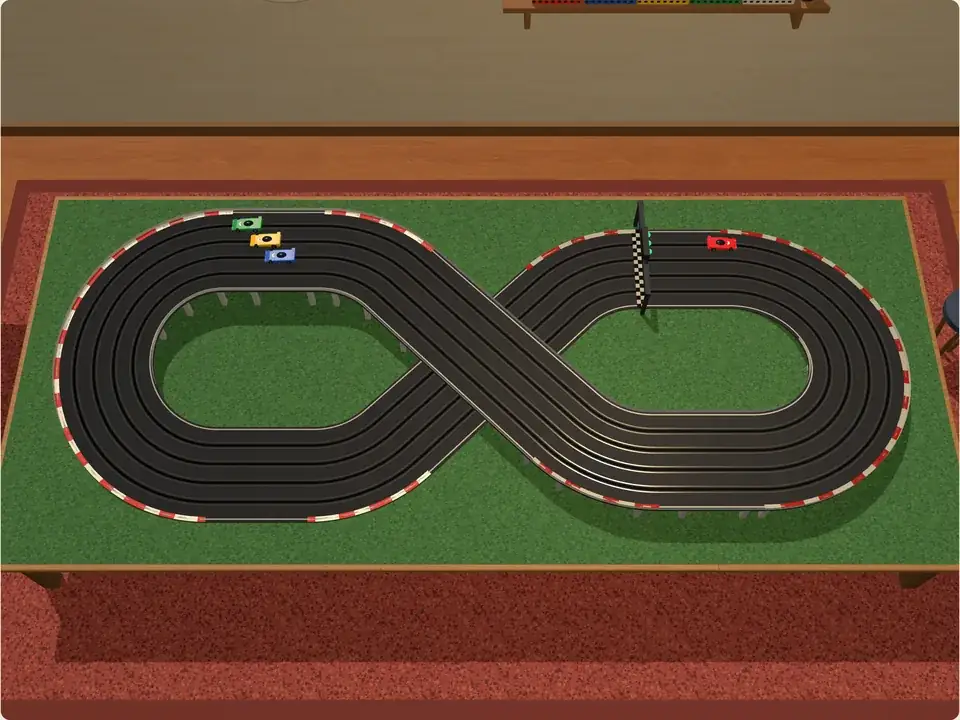
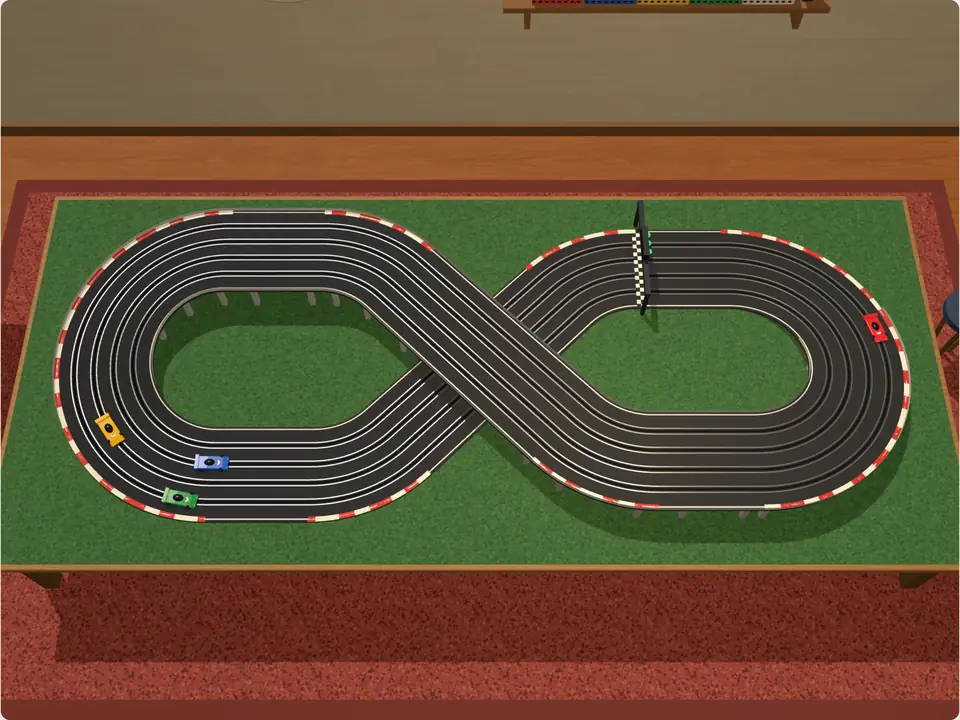
Slot car: banked curves turn about their inner edge and the beams follow the bank (no broken track); the computer's cars now and then push too hard and fly off
Claude-Session: https://claude.ai/code/session_01Uedx1uYtd54DPXXtQh77nN

Changed region(s): [[0.0625, 0.275, 0.9688, 0.7333]]

diff --git a/src/core/updates.ts b/src/core/updates.ts
@@ -12,7 +12,7 @@ const at = (text: string, full = false) => ({ text, full });
 export const UPDATES: UpdateDay[] = [
   {
     date: "2026-11-25",
-    items: [at("배드민턴 와이파이 여럿이(둘이)"), at("배드민턴: 손가락을 떼지 않고 누른 채로 빠르게 밀기만 해도 칩니다"), at("낚시: 찌를 물면 격렬하게 요동치고, 릴을 계속 빠르게 돌려야(화면에 원 그리기·스페이스 연타) 끌어올립니다"), at("낚시: 바다 낚시(전갱이부터 참치까지, 더 길고 거친 싸움), 호수는 낮에서 해질녘을 지나 밤으로, 낚싯대에 돌아가는 릴"), at("숫자 코드 와이파이: 처음에 모두 함께 패를 정리하고 배열 완료(조커를 받은 사람이 티 나지 않게)"), at("낚시: 호수에 개구리·가재, 바다에 장어·청새치·상어·고래"), at("낚시: 시간 제한과 난이도 없음, 바다 낚시는 흔들리는 낚싯배 위에서"), at("낚시: 바다도 낮에서 밤으로 하늘이 바뀌고, 물고기가 덜 자주 차고 나갑니다"), at("낚시: 흔한 물고기는 금방 딸려 오고 큰 물고기는 오래 걸림, 큰 물고기도 요동은 몇 번뿐"), at("배드민턴: 높이 뜬 셔틀콕이 더 빠르게 올라갔다 떨어집니다"), at("탁구: 내가 친 공은 아웃되지 않고, 친 뒤 라켓을 옆으로 움직여 공을 휘게 합니다(치는 순간 저절로 걸리던 스핀 없음)"), at("배드민턴: 아웃 없음(옆줄·뒷줄 안쪽으로, 서브도 맞는 코트로)"), at("탁구: 컴퓨터가 더 빨라져 옆으로 치거나 휜 공도 받아 냅니다"), at("새 게임: 훌라 — 같은 숫자·같은 무늬 묶음을 등록하고 붙여 먼저 손을 비우기(땡큐, 7 단독 등록, 한 번에 털면 훌라 두 배)"), at("새 게임: 룰렛 — 칩을 판에 걸고 휠을 돌리면 공이 굴러 떨어진 칸으로 승부", true), at("새 게임: 슬롯머신 — 레버를 끌어 당기면 릴 3개가 돌다 멈춤, 1·3·5라인, 환급률 95.4%", true)],
+    items: [at("배드민턴 와이파이 여럿이(둘이)"), at("배드민턴: 손가락을 떼지 않고 누른 채로 빠르게 밀기만 해도 칩니다"), at("낚시: 찌를 물면 격렬하게 요동치고, 릴을 계속 빠르게 돌려야(화면에 원 그리기·스페이스 연타) 끌어올립니다"), at("낚시: 바다 낚시(전갱이부터 참치까지, 더 길고 거친 싸움), 호수는 낮에서 해질녘을 지나 밤으로, 낚싯대에 돌아가는 릴"), at("숫자 코드 와이파이: 처음에 모두 함께 패를 정리하고 배열 완료(조커를 받은 사람이 티 나지 않게)"), at("낚시: 호수에 개구리·가재, 바다에 장어·청새치·상어·고래"), at("낚시: 시간 제한과 난이도 없음, 바다 낚시는 흔들리는 낚싯배 위에서"), at("낚시: 바다도 낮에서 밤으로 하늘이 바뀌고, 물고기가 덜 자주 차고 나갑니다"), at("슬롯 카: 컴퓨터도 가끔 과속으로 코스 이탈"), at("낚시: 흔한 물고기는 금방 딸려 오고 큰 물고기는 오래 걸림, 큰 물고기도 요동은 몇 번뿐"), at("배드민턴: 높이 뜬 셔틀콕이 더 빠르게 올라갔다 떨어집니다"), at("탁구: 내가 친 공은 아웃되지 않고, 친 뒤 라켓을 옆으로 움직여 공을 휘게 합니다(치는 순간 저절로 걸리던 스핀 없음)"), at("배드민턴: 아웃 없음(옆줄·뒷줄 안쪽으로, 서브도 맞는 코트로)"), at("탁구: 컴퓨터가 더 빨라져 옆으로 치거나 휜 공도 받아 냅니다"), at("새 게임: 훌라 — 같은 숫자·같은 무늬 묶음을 등록하고 붙여 먼저 손을 비우기(땡큐, 7 단독 등록, 한 번에 털면 훌라 두 배)"), at("새 게임: 룰렛 — 칩을 판에 걸고 휠을 돌리면 공이 굴러 떨어진 칸으로 승부", true), at("새 게임: 슬롯머신 — 레버를 끌어 당기면 릴 3개가 돌다 멈춤, 1·3·5라인, 환급률 95.4%", true)],
   },
   {
     date: "2026-11-24",

diff --git a/src/games/slotcar/sim.ts b/src/games/slotcar/sim.ts
@@ -38,10 +38,15 @@ export const COUNTDOWN = 3,
 export const CAR_LENGTH = 0.78;
 export const ticks = (seconds: number) => Math.round(seconds / DT);
 /** The computer's drivers by level: how near the grip they aim to take a curve, how far that judgement strays, how late they brake. */
+/**
+ * …and how often, at each curve of a lap, it pushes its luck (`push`: the user asked that the computer's cars also fly
+ * off now and then when they go fast): it takes that curve at `over` times the safe speed or more, and does not lift
+ * when the tail steps out, so that it often slides out and flies off.
+ */
 export const LEVELS = {
-  easy: { aim: 0.9, stray: 0.45, late: 1.8, react: 0.45 },
-  normal: { aim: 0.93, stray: 0.15, late: 1.4, react: 0.3 },
-  hard: { aim: 0.98, stray: 0.02, late: 1, react: 0.18 },
+  easy: { aim: 0.9, stray: 0.45, late: 1.8, react: 0.45, push: 0.07, over: [1.3, 1.55] },
+  normal: { aim: 0.93, stray: 0.15, late: 1.4, react: 0.3, push: 0.06, over: [1.3, 1.55] },
+  hard: { aim: 0.98, stray: 0.02, late: 1, react: 0.18, push: 0.045, over: [1.3, 1.5] },
 };
 export type Level = keyof typeof LEVELS;
 export interface Flight {
@@ -126,7 +131,11 @@ export function createWorld(course: string, cars: number, laps: number, level: L
 /** A driver's judgement of every curve for the coming lap. */
 function rejudge(world: World, car: number, level: Level) {
   const skill = LEVELS[level];
-  world.judge[car] = world.track.segments.map(() => skill.aim * (1 + (draw(world) * 2 - 1) * skill.stray));
+  world.judge[car] = world.track.segments.map((seg) => {
+    const steady = skill.aim * (1 + (draw(world) * 2 - 1) * skill.stray);
+    if (seg.kind !== "curve" || draw(world) >= skill.push) return steady;
+    return skill.over[0] + (skill.over[1] - skill.over[0]) * draw(world);
+  });
 }
 /** Whether the green light is on. */
 export const racing = (world: World) => world.tick >= ticks(COUNTDOWN) && world.closed === null;
@@ -322,7 +331,7 @@ export function autopilot(world: World, k: number, level: Level = "normal") {
     }
     ahead += laneLength(seg, d);
   }
-  // Tail out: a careful driver lifts at once.
-  if (level !== "easy" && car.slide > (level === "hard" ? 0.2 : 0.45)) return false;
+  // Tail out: a careful driver lifts at once (not where it is pushing its luck: it keeps its foot down).
+  if (level !== "easy" && car.slide > (level === "hard" ? 0.2 : 0.45) && !(world.judge[k][car.seg] > 1)) return false;
   return car.v < limit - 0.08;
 }

diff --git a/tests/slotcar.test.ts b/tests/slotcar.test.ts
@@ -184,7 +184,7 @@ describe("slot car driving", () => {
     expect(end.kind === "end" && end.ranking).toEqual([0, 1]);
     expect(world.closed! - world.cars[0].finish!).toBe(ticks(WAIT));
   });
-  it("the computer's drivers finish a race at every level, the hard ones never flying off", () => {
+  it("the computer's drivers finish a race at every level", () => {
     for (const course of COURSES)
       for (const level of ["easy", "normal", "hard"] as const) {
         const world = createWorld(course.value, 4, 3, level, 7),
@@ -192,18 +192,29 @@ describe("slot car driving", () => {
         expect(events.some((e) => e.kind === "end")).toBe(true);
         expect(world.order).toHaveLength(4);
         expect(ranking(world)).toEqual(world.order);
-        if (level === "hard") expect(world.cars.every((c) => c.offs === 0)).toBe(true);
       }
   });
-  it("the easy drivers fly off now and then", () => {
-    let offs = 0;
-    for (const course of COURSES)
-      for (let seed = 1; seed <= 4; seed++) {
-        const world = createWorld(course.value, 4, 5, "easy", seed);
-        run(world, (w, k) => autopilot(w, k, "easy"), 300, (e) => e.some((x) => x.kind === "end"), "easy");
-        offs += world.cars.reduce((sum, c) => sum + c.offs, 0);
-      }
-    expect(offs).toBeGreaterThan(0);
+  it("at every level the computer's drivers fly off now and then, going too fast into a curve (the lower the level, the more often), but not often", () => {
+    const rate = (level: "easy" | "normal" | "hard") => {
+      let offs = 0,
+        laps = 0;
+      for (const course of COURSES)
+        for (let seed = 1; seed <= 4; seed++) {
+          const world = createWorld(course.value, 4, 5, level, seed);
+          run(world, (w, k) => autopilot(w, k, level), 300, (e) => e.some((x) => x.kind === "end"), level);
+          offs += world.cars.reduce((sum, c) => sum + c.offs, 0);
+          laps += world.cars.reduce((sum, c) => sum + c.laps, 0);
+        }
+      return offs / laps;
+    };
+    const easy = rate("easy"),
+      normal = rate("normal"),
+      hard = rate("hard");
+    for (const r of [easy, normal, hard]) {
+      expect(r).toBeGreaterThan(0.01);
+      expect(r).toBeLessThan(0.15);
+    }
+    expect(easy).toBeGreaterThan(hard);
   });
   it("is the same race every time it is run with the same seed and the same pedals", () => {
     const race = () => {

diff --git a/src/games/slotcar/view.ts b/src/games/slotcar/view.ts
@@ -286,6 +286,7 @@ export class SlotCarView extends TableView<State> {
     sun.shadow.mapSize.set(2048, 2048);
     Object.assign(sun.shadow.camera, { left: -half - 1, right: half + 1, top: depth + 6, bottom: -depth - 6, near: 1, far: 50 });
     sun.shadow.normalBias = 0.02;
+    sun.shadow.bias = -0.0004;
     this.own(sun.shadow);
     this.scene.add(sun);
     const lamp = new T.PointLight("#ffd9a0", 26, 30, 1.6);
@@ -404,12 +405,15 @@ export class SlotCarView extends TableView<State> {
           m.castShadow = m.receiveShadow = true;
           this.scene.add(m);
         }
-        const s = scenePoint(this.track, mid.x, mid.y, mid.h),
+        // The beam lies across under the track from foot to foot, tilted as the track is (on a banked curve its ends
+        // stuck up through the surface when it was kept level).
+        const [l, r] = feet.map((f) => scenePoint(this.track, f.x, f.y, f.h)),
+          from = new T.Vector3(l.x, l.y - THICK - 0.05, l.z),
+          to = new T.Vector3(r.x, r.y - THICK - 0.05, r.z),
           m = new T.Mesh(beam, grey);
-        m.scale.x = half * 2 - 0.2;
-        m.position.set(s.x, s.y - THICK - 0.05, s.z);
-        // The beam lies across the track: a quarter turn from its heading.
-        m.rotation.y = mid.heading + Math.PI / 2;
+        m.scale.x = from.distanceTo(to);
+        m.position.copy(from).add(to).multiplyScalar(0.5);
+        m.quaternion.setFromUnitVectors(new T.Vector3(1, 0, 0), to.clone().sub(from).normalize());
         this.scene.add(m);
       }
   }

diff --git a/src/games/slotcar/track.ts b/src/games/slotcar/track.ts
@@ -233,14 +233,20 @@ export interface Pose {
   bank: number;
   slope: number;
 }
+/** The widest track's half width: a banked curve turns about its inner edge there, so no part of it sinks below the table. */
+export const WIDEST_HALF = 2 * LANE_W + BORDER;
 /** Where a lane at offset `d` is at fraction `f` through segment `seg`. */
 export function laneAt(seg: Segment, f: number, d: number): Pose {
   const m = middle(seg, f * seg.length),
-    bank = bankAt(seg, f) * Math.sign(seg.turn),
+    sign = Math.sign(seg.turn),
+    bank = bankAt(seg, f) * sign,
     eased = ease(f),
     h = seg.h0 + (seg.h1 - seg.h0) * eased,
     slope = ((seg.h1 - seg.h0) * 6 * f * (1 - f)) / Math.max(1e-6, seg.length);
-  return { x: m.x - Math.sin(m.heading) * d, y: m.y + Math.cos(m.heading) * d, h: h - Math.sin(bank) * d, heading: m.heading, bank, slope };
+  // Banked, the track is raised on its outer side about its inner edge (it tilted about its middle, and its inner
+  // edge sank into the table: the user saw the track broken there).
+  const raised = Math.sin(Math.abs(bank)) * (WIDEST_HALF - sign * d);
+  return { x: m.x - Math.sin(m.heading) * d, y: m.y + Math.cos(m.heading) * d, h: h + (seg.kind === "curve" ? raised : 0), heading: m.heading, bank, slope };
 }
 /** A point of the track's surface `d` across from the middle line, `along` units into a segment. */
 export const surfaceAt = (seg: Segment, along: number, d: number) => laneAt(seg, Math.min(1, Math.max(0, along / seg.length)), d);

diff --git a/AGENTS.md b/AGENTS.md
@@ -368,3 +368,5 @@
 - 핀볼 (NO. 107) and 스노보드 (NO. 111) were removed at the user's request ("핀볼, 스노보드 삭제"): their folders, tests, specs, thumbnails, catalog entries, app registrations, `chrome.ts` end words, music, CSS (`.sb-*`), capture entries and update-log items are gone; the numbers 107 and 111 stay unused. Their code is in the git history (the snowboard's last state at 4b8f992) if asked for again.
 - Slot machine, only the lever starts it by a pointer (the user asked: "슬롯머신에서 기계 시작 클릭 판정을 레버에만 줘. 다른 곳을 클릭해도 레버가 움직여"): a press that is not on the lever (its unseen wider grip included) or a button now does nothing (`dragStart` returns false; it used to pull and spin, and the lever swung down by itself); the deck's red button is 멈춤 (`stop`, `HURRY`): it only hurries the turning reels and lights, blinking, while they turn. Space still pulls and hurries; the screen readers' hidden 스핀 tool stays. Test: `tests/e2e/slot-machine.spec.ts` (clicks on the window, 멈춤 and the room spin nothing and leave the lever up; 멈춤 while turning).
 - Fishing, fight length by the fish (the user asked: "흔한 물고기는 금방 딸려오게 하고, 큰 물고기는 오래 걸리게 해 줘. 다만 큰 물고기도 요동치는 횟수를 줄여 줘"): the reel's pace is `reelPace(pull, sizeShare)` = `REEL_PACE` 2.4 × (`COMMON_PULL` 0.3 / pull)^`REEL_POWER` 1.4 (at most `REEL_MOST` 2.6) × (1.15 − 0.3 × the size's share of its kind); a heavy fish rests `restOf(pull)` = 1 + 1.5 × (pull − 0.5) times longer between surges, and its runs go `runOf(pull)` (the same power, at least 0.25) as far, so a long fight still ends; `SEA.reel` is 1 (the sea's fish are heavier anyway). A careful hand (no winding while it runs) lands a frog in ~2.5 s, a crucian ~6, a horse mackerel ~10, a catfish ~24, a tuna ~53, a marlin or a whale ~80, with 4–6 surges for the giants (before: every lake fish 6–7 s, and the sea's giants 30–50 surges, mostly never landed). Test: `tests/fishing.test.ts` (common fish come in quickly, big ones take long, with few surges).
+- Slot car track and the computer's flights (the user asked: "트랙 깨진 부분들 수정하고, 컴퓨터들도 빠르게 달리다가 코스 이탈하는 경우도 나오게"): a banked curve now turns about its inner edge (`laneAt` raises the surface by sin(bank) × (`WIDEST_HALF` − side × d)), so no edge sinks into the table (the grand circuit's banked turns showed torn inner edges); the pillars' beams run from foot to foot, tilted with the track (level, their ends stuck up through banked curves as white bars); the sun's shadow has a small `bias`. `LEVELS` gained `push` (per curve per lap: easy 0.07, normal 0.06, hard 0.045) and `over` (1.3–1.55 × the safe speed): on such a curve the driver aims over the grip and keeps its foot down when the tail steps out, so it often flies off: about 0.09 / 0.05 / 0.03 flights per car-lap (before: 0.04 / 0 / 0). Tests: `tests/slotcar.test.ts` (every level flies off now and then, not often, easy most).
+- The finale stays through taps elsewhere (the user asked: "맨 마지막 최종 승리, 패배 메시지 후 다른 곳을 눌러도 그 메시지가 꺼지지 않게"): `finale` removes itself only when `#move-count`'s text really changes (a new game, an undo); the screens rewrite the same count on every redraw, and a tap after the end did that, taking the final word away. Test: `tests/e2e/nim.spec.ts` (taps on the table after the end leave it).

diff --git a/README.md b/README.md
@@ -1116,3 +1116,5 @@ npm run build:html
 - 핀볼(NO. 107)과 스노보드(NO. 111)를 컬렉션에서 뺐습니다. 코드·테스트·썸네일도 모두 지웠습니다(번호 107·111은 비어 있습니다).
 - 슬롯머신(사용자 요청): 마우스·터치로는 **레버만** 기계를 돌립니다. 릴 창이나 다른 곳을 눌러도 돌지 않고 레버도 움직이지 않습니다. 빨간 스핀 버튼은 **멈춤** 버튼이 되어, 릴이 도는 동안 누르면 다음 릴이 바로 멈춥니다(결과는 그대로). 키보드는 스페이스로 돌리고 멈춥니다.
 - 낚시(사용자 요청): 흔한 작은 물고기는 금방 딸려 오고 큰 물고기는 오래 걸립니다. 조심스럽게 감을 때 개구리 약 3초, 붕어 약 6초, 전갱이 약 10초, 메기 약 24초, 참치 약 53초, 청새치·고래 약 80초입니다(예전에는 호수 물고기가 모두 6~7초였고, 바다의 큰 물고기는 30~50번 요동치며 거의 잡을 수 없었습니다). 무거운 물고기는 요동치는 사이가 길고 한 번에 끌고 가는 거리도 짧아서, 오래 싸워도 요동은 4~6번 안팎입니다. 같은 물고기도 클수록 조금 더 걸립니다.
+- 슬롯 카(사용자 요청): 깨져 보이던 트랙을 고쳤습니다. 기울어진(뱅크) 코너가 가운데를 축으로 기울어 안쪽 가장자리가 테이블 아래로 파고들던 것을, 안쪽 가장자리를 축으로 바깥쪽만 들어 올리게 바꿨고, 고가 구간 기둥 위 가로보가 뱅크 코너에서 트랙 위로 삐져나오던 것도 트랙 기울기를 따르게 했습니다. 또 컴퓨터 차도 가끔 코너에 너무 빨리 들어가 미끄러지며 코스를 이탈합니다(코너마다 낮은 확률로 안전 속도의 1.3~1.55배로 밀어붙이고, 그때는 꼬리가 빠져도 발을 떼지 않음). 5바퀴 레이스에서 컴퓨터 셋이 대략 한두 번 이탈합니다(쉬움이 더 자주).
+- 최종 승리·패배 글자: 게임이 끝난 뒤 판의 다른 곳을 눌러도 사라지지 않습니다(화면이 같은 수를 다시 적을 때 사라지던 문제). 새 게임을 시작하거나 수를 되돌릴 때만 사라집니다.

diff --git a/ROADMAP.md b/ROADMAP.md
@@ -454,6 +454,8 @@
 - [x] 스노보드: 앞을 가리던 눈더미 없앰, 코스 세 패턴(굴곡·긴 내리막+점프·평범, 바위는 평범에만), 실사 그래픽(대기 산란 하늘, 입체 산맥과 안개, 실제 그림자, 눈 결), 넘어졌다 일어나는 모션, 회전 느리게
 - [x] 핀볼·스노보드 삭제(사용자 요청)
 - [x] 낚시: 흔한 물고기는 금방, 큰 물고기는 오래(무게에 따라), 큰 물고기도 요동 횟수는 적게
+- [x] 슬롯 카: 뱅크 코너 안쪽이 테이블에 파묻혀 깨져 보이던 트랙과 삐져나온 가로보 수정, 컴퓨터도 가끔 과속으로 코스 이탈
+- [x] 최종 승리·패배 글자가 다른 곳을 눌러도 사라지지 않게
 - [x] 슬롯머신: 클릭·터치로는 레버만 기계를 돌림(다른 곳을 눌러도 레버가 움직이던 문제), 스핀 버튼은 멈춤 버튼으로
 - [x] 탁구: 컴퓨터 라켓 속도·반응 빠르게(쉬움 2.0, 보통 2.6, 어려움 3.4 m/s), 옆으로 치거나 휜 공도 받아 냄
 - [x] 낚시: 시간 제한과 난이도 없앰(점수가 계속 쌓임, 호수의 하루는 6분마다 돎), 바다 낚시는 흔들리는 낚싯배 위에서
